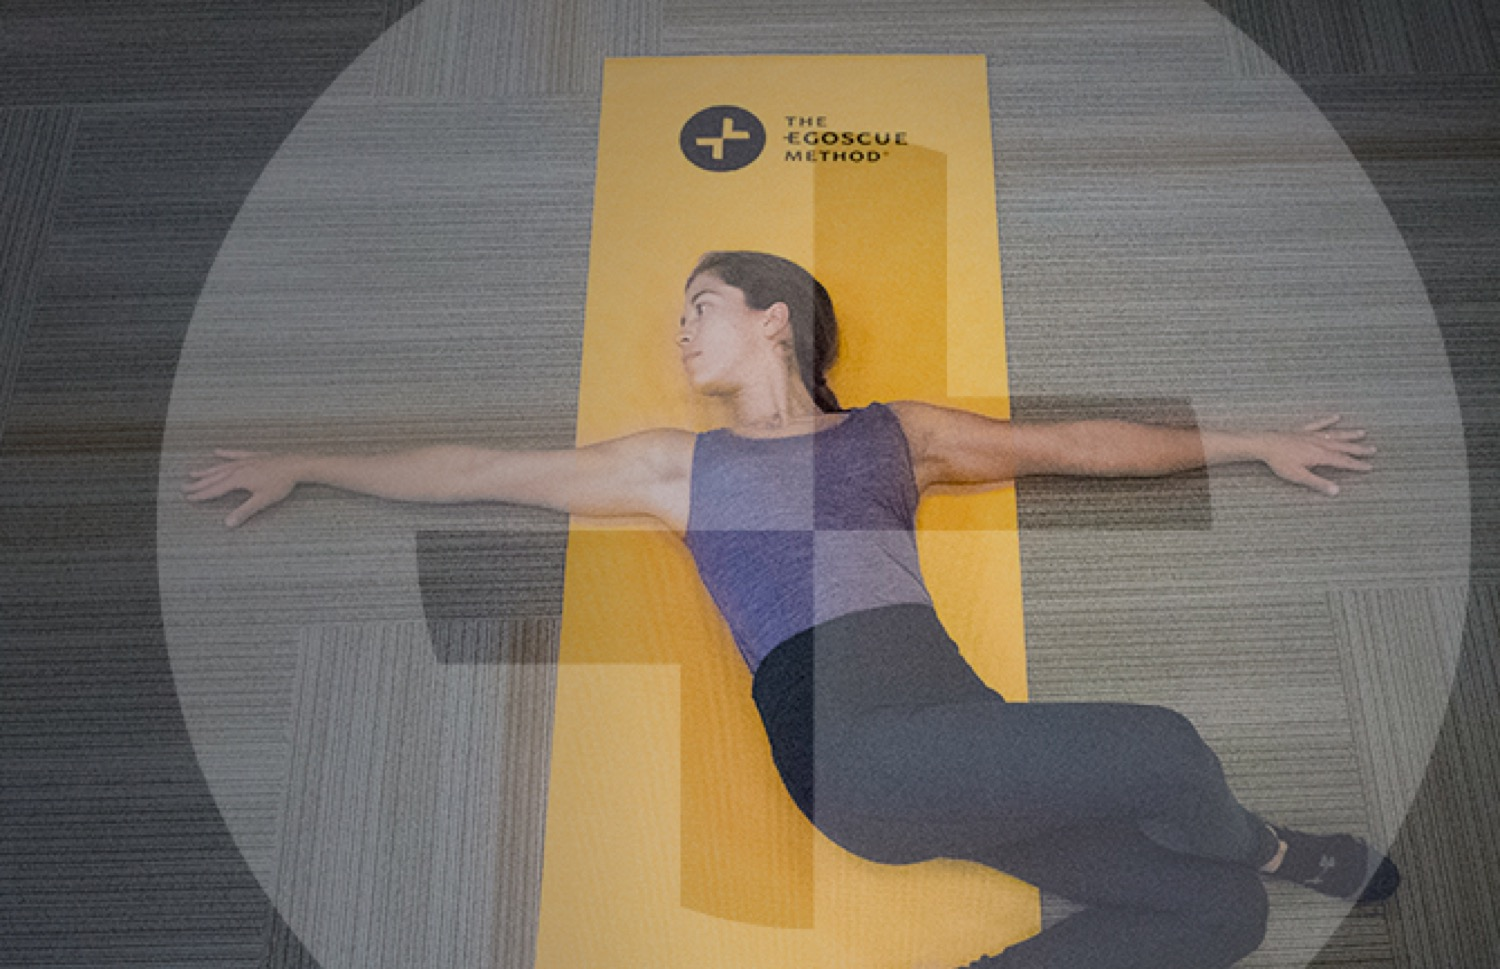
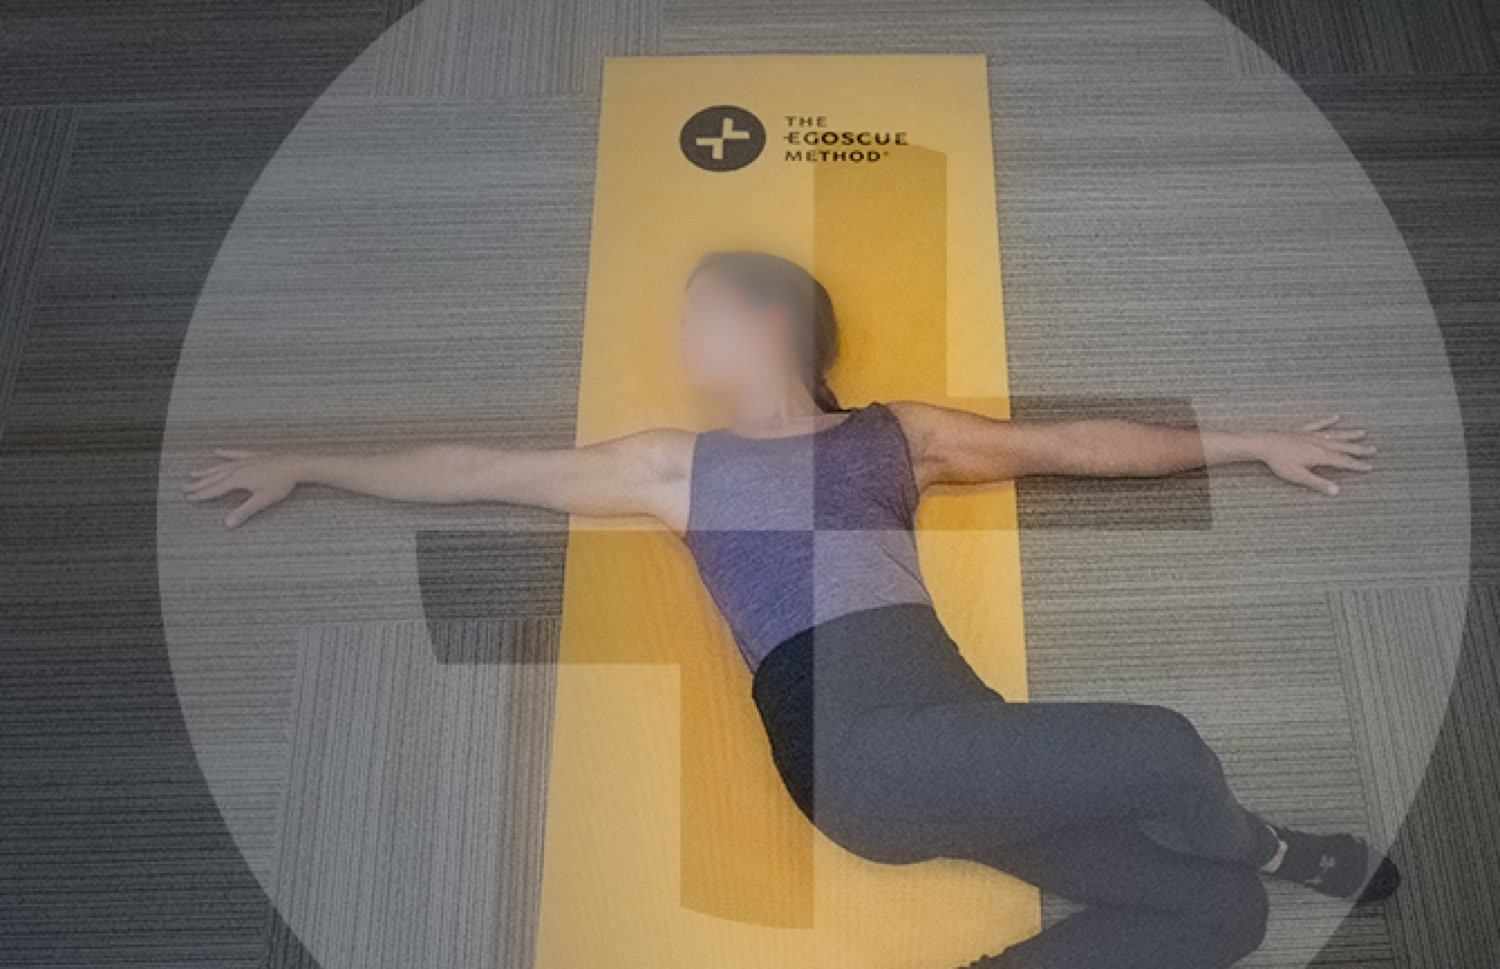
Mending postural page: top section centered, photo fills its section; softer natural blur on the face in the rack-card photo

diff --git a/peek/mending-roots/postural-alignment-therapy/index.html b/peek/mending-roots/postural-alignment-therapy/index.html
@@ -1407,6 +1407,15 @@
   .bk-x { position: absolute; right: 10px; top: 10px; z-index: 2; width: 38px; height: 38px; border-radius: 50%; border: 0; background: rgba(33,23,15,.85); color: #fff; font-size: 22px; line-height: 1; cursor: pointer; }
   .doc .addon-h { margin-top: 56px; padding-top: 18px; border-top: 1px solid var(--hair-2); }
 </style>
+<style id="pat-center">/* the top section of this page sits in the middle: heading, card, words and button */
+  .doc.cb0 .wrap { max-width: 860px; text-align: center; }
+  .doc.cb0 .wrap > h2, .doc.cb0 .wrap > p, .doc.cb0 .wrap > img { margin-inline: auto; }
+  .doc.cb0 .wrap > img { width: 100%; max-width: 100%; height: auto; } /* the photo fills the width of its section */
+  .doc.cb0 .wrap > h2 { margin-top: 24px; }
+  .doc.cb0 .wrap > h2::after { margin-inline: auto; }
+  .doc.cb0 .wrap > .btn { display: inline-flex; }
+</style>
+
 <header class="hero short gutter" id="top">
   <div class="hero-photo" aria-hidden="true"></div>
   <div class="hero-veil" aria-hidden="true"></div>
